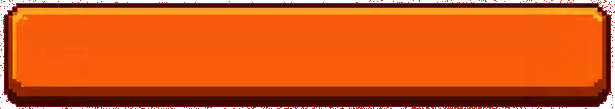
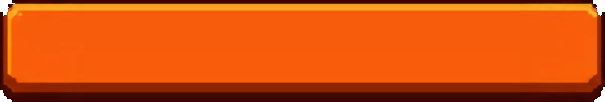
usa o novo desenho do botão laranja em todas as telas do site e do jogo

Changed region(s): [[0.0, 0.0, 1.0, 1.0]]

diff --git a/src/routes/index.tsx b/src/routes/index.tsx
@@ -235,7 +235,7 @@ function Home() {
         : Math.min(w * 0.42, 560);
     return Math.max(base, Math.min(271, w * 0.9)); // altura mínima para o dedo (48px)
   })();
-  const alturaBotao = Math.max(48, larguraBotao * (109 / 615));
+  const alturaBotao = Math.max(48, larguraBotao * (102 / 605));
   const tamBotao = (() => {
     if (!larguraBotao) return 0;
     // o texto (com contorno e sombra) fica dentro da arte, com folga dos dois lados
@@ -256,7 +256,7 @@ function Home() {
   const classeBotao =
     "pixelated flex items-center justify-center whitespace-nowrap font-sans font-normal leading-none text-[#f6e38c] transition hover:brightness-110 active:translate-y-[2px] focus-visible:outline-none focus-visible:ring-4 focus-visible:ring-highlight";
   const botaoSemMedida =
-    "aspect-[615/109] w-[min(86vw,352px)] text-[clamp(1.25rem,6vw,2.1rem)] sm:w-[min(30vw,440px)] sm:text-[clamp(1.4rem,2.8vw,2.3rem)]";
+    "aspect-[605/102] w-[min(86vw,352px)] text-[clamp(1.25rem,6vw,2.1rem)] sm:w-[min(30vw,440px)] sm:text-[clamp(1.4rem,2.8vw,2.3rem)]";
 
   const botao = (to: "new" | "continue", texto: string) => (
     <Link

diff --git a/src/routes/__root.tsx b/src/routes/__root.tsx
@@ -27,7 +27,7 @@ function NotFoundComponent() {
         <div className="mt-6">
           <Link
             to="/"
-            className="inline-flex items-center justify-center rounded-md bg-primary px-4 py-2 text-sm font-medium text-primary-foreground transition-colors hover:bg-primary/90"
+            className="botao-arte inline-flex min-h-12 items-center justify-center px-5 text-lg hover:brightness-110"
           >
             Go home
           </Link>
@@ -59,7 +59,7 @@ function ErrorComponent({ error, reset }: ErrorComponentProps) {
               router.invalidate();
               reset();
             }}
-            className="inline-flex items-center justify-center rounded-md bg-primary px-4 py-2 text-sm font-medium text-primary-foreground transition-colors hover:bg-primary/90"
+            className="botao-arte inline-flex min-h-12 items-center justify-center px-5 text-lg hover:brightness-110"
           >
             Try again
           </button>

diff --git a/src/components/ui/button.tsx b/src/components/ui/button.tsx
@@ -16,10 +16,10 @@ const buttonVariants = cva(
         secondary: "bg-secondary text-secondary-foreground shadow-sm hover:bg-secondary/80",
         ghost: "hover:bg-accent hover:text-accent-foreground",
         link: "text-primary underline-offset-4 hover:underline",
-        chunky:
-          "rounded-sm bg-primary text-primary-foreground font-bold shadow-chunky active:translate-y-1 active:shadow-none hover:brightness-110",
+        // os dois usam a arte do botão laranja; o secundário fica um pouco mais apagado
+        chunky: "botao-arte font-bold hover:brightness-110 active:translate-y-0.5",
         chunkySand:
-          "rounded-sm bg-secondary text-secondary-foreground font-bold shadow-chunky-sand active:translate-y-1 active:shadow-none hover:brightness-110",
+          "botao-arte font-bold brightness-[0.9] saturate-[0.9] hover:brightness-100 active:translate-y-0.5",
       },
       size: {
         default: "h-9 px-4 py-2",

diff --git a/src/styles.css b/src/styles.css
@@ -99,6 +99,8 @@
   --ring: #ffd23f;
   --frame: #a5461f;
   --frame-shadow: #6e2a10;
+  --button-art-foreground: #f6e38c;
+  --button-art-shadow: #5a1d07;
   --chart-1: #e2672b;
   --chart-2: #f7dfbd;
   --chart-3: #22806f;
@@ -132,6 +134,21 @@
   border: 4px solid var(--frame);
   box-shadow: 0 6px 0 var(--frame-shadow);
   border-radius: 0;
+}
+
+/* botão laranja de fliperama (public/assets/hub/botao.png) em 9 fatias: os cantos e as bordas
+   ficam do tamanho certo em qualquer botão (largo, estreito ou quadrado) e o meio estica */
+@utility botao-arte {
+  border-style: solid;
+  border-color: transparent;
+  border-width: 6px 6px 10px;
+  border-image: url(/assets/hub/botao.png) 12 12 20 fill / 6px 6px 10px stretch;
+  border-radius: 0;
+  background: transparent;
+  box-shadow: none;
+  image-rendering: pixelated;
+  color: var(--button-art-foreground);
+  text-shadow: 2px 2px 0 var(--button-art-shadow);
 }
 
 @utility pixelated {

diff --git a/src/game/ui/hub.tsx b/src/game/ui/hub.tsx
@@ -60,7 +60,7 @@ export function BotaoHub({
   style,
   ...props
 }: ButtonHTMLAttributes<HTMLButtonElement> & { principal?: boolean }) {
-  const tamanho = `aspect-[615/100] px-[8%] ${TEXTO_MENU} ${
+  const tamanho = `aspect-[605/102] px-[8%] ${TEXTO_MENU} ${
     principal ? "" : "brightness-[0.88] saturate-[0.9] hover:brightness-100"
   }`;
   return (

diff --git a/roadmap.md b/roadmap.md
@@ -52,3 +52,8 @@
 - [x] Tirar a pausa automática por "reduzir movimento" (decisão do dono do projeto)
 - [x] Botão pixel de pausar/continuar no canto de baixo à direita (48px), aria-label nos 5 idiomas, escolha guardada no aparelho
 - [x] Conferir com "reduzir movimento" ligado: vídeo segue tocando depois de 15 s
+
+## Yckler — novo desenho do botão em todas as telas
+- [x] Trocar a arte do botão (public/assets/hub/botao.png) pelo modelo enviado
+- [x] Botões principais do site e do jogo (chunky/chunkySand, hub, home, idioma, "Visitar", tela de erro) usando a arte
+- [x] Conferir home, /fontes e telas do jogo em celular e computador

diff --git a/src/components/AGENTS.md b/src/components/AGENTS.md
@@ -1,0 +1,3 @@
+# src/components
+
+- Main action buttons (`Button` variants `chunky`/`chunkySand`) draw the shared orange arcade art `public/assets/hub/botao.png` through the `botao-arte` utility in `src/styles.css`, a 9-slice `border-image`, so the corners stay crisp at any button size; swap the art by replacing that one file.
